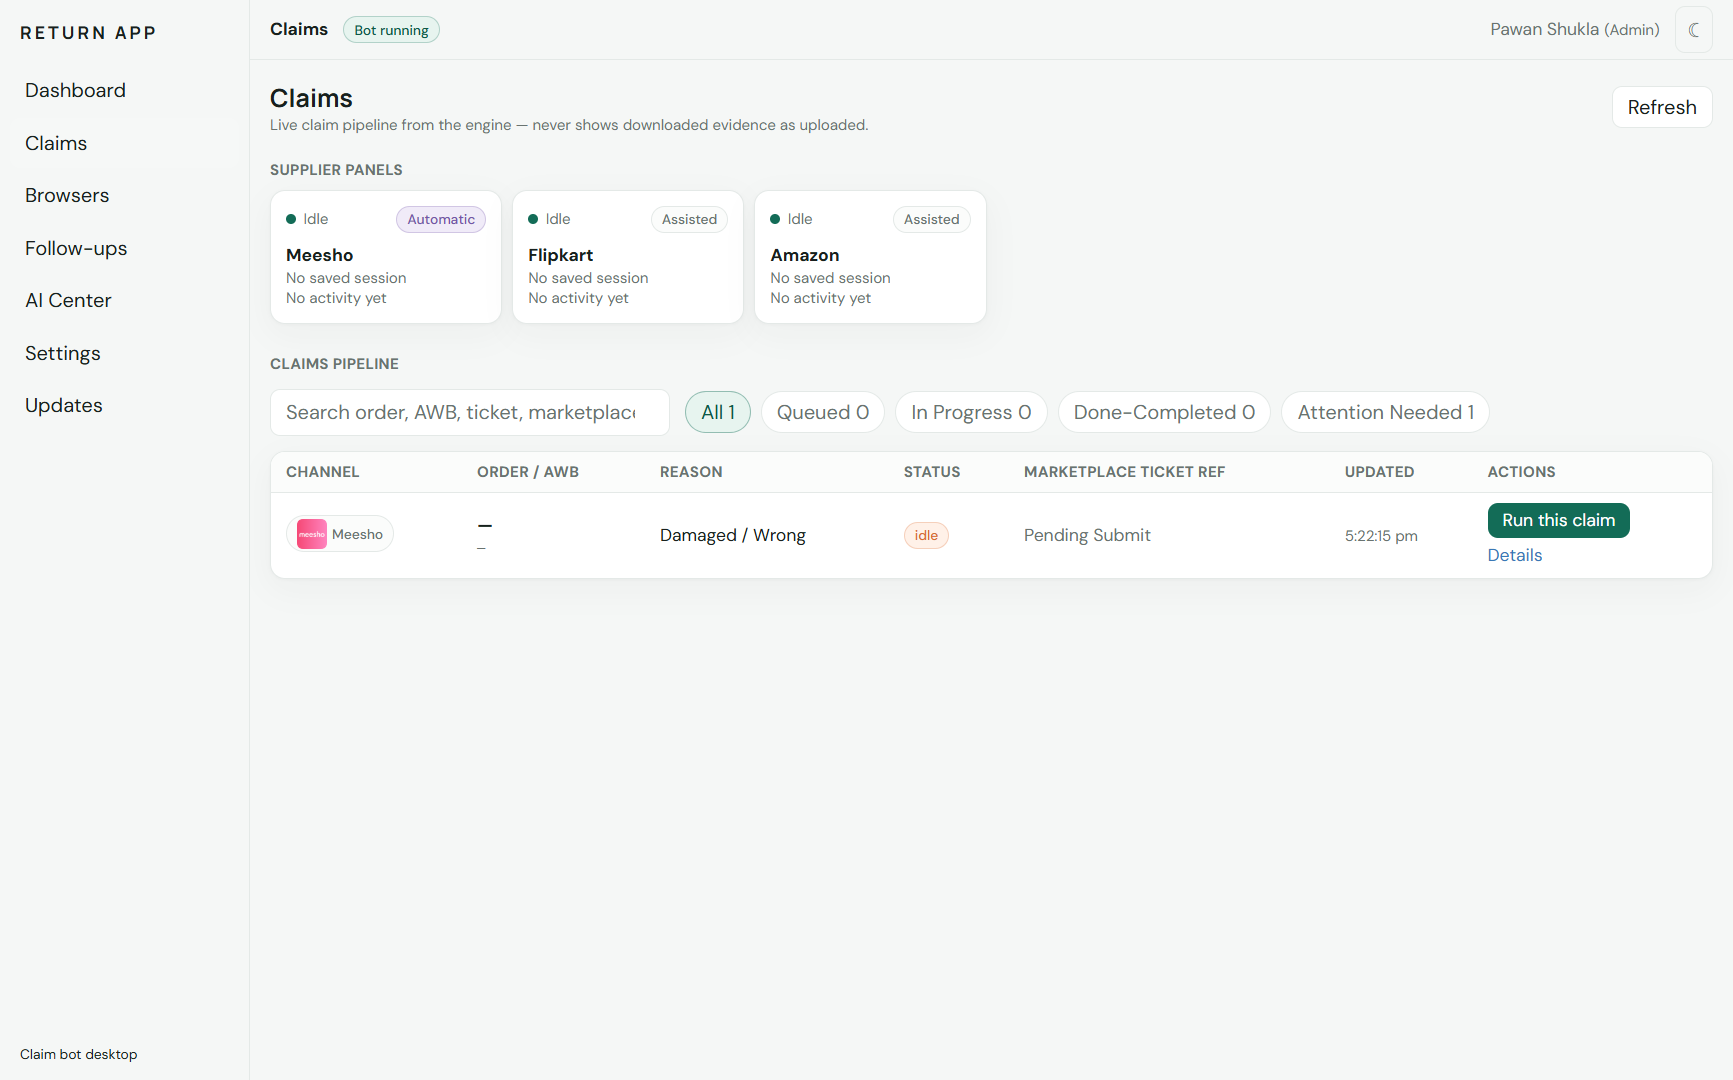
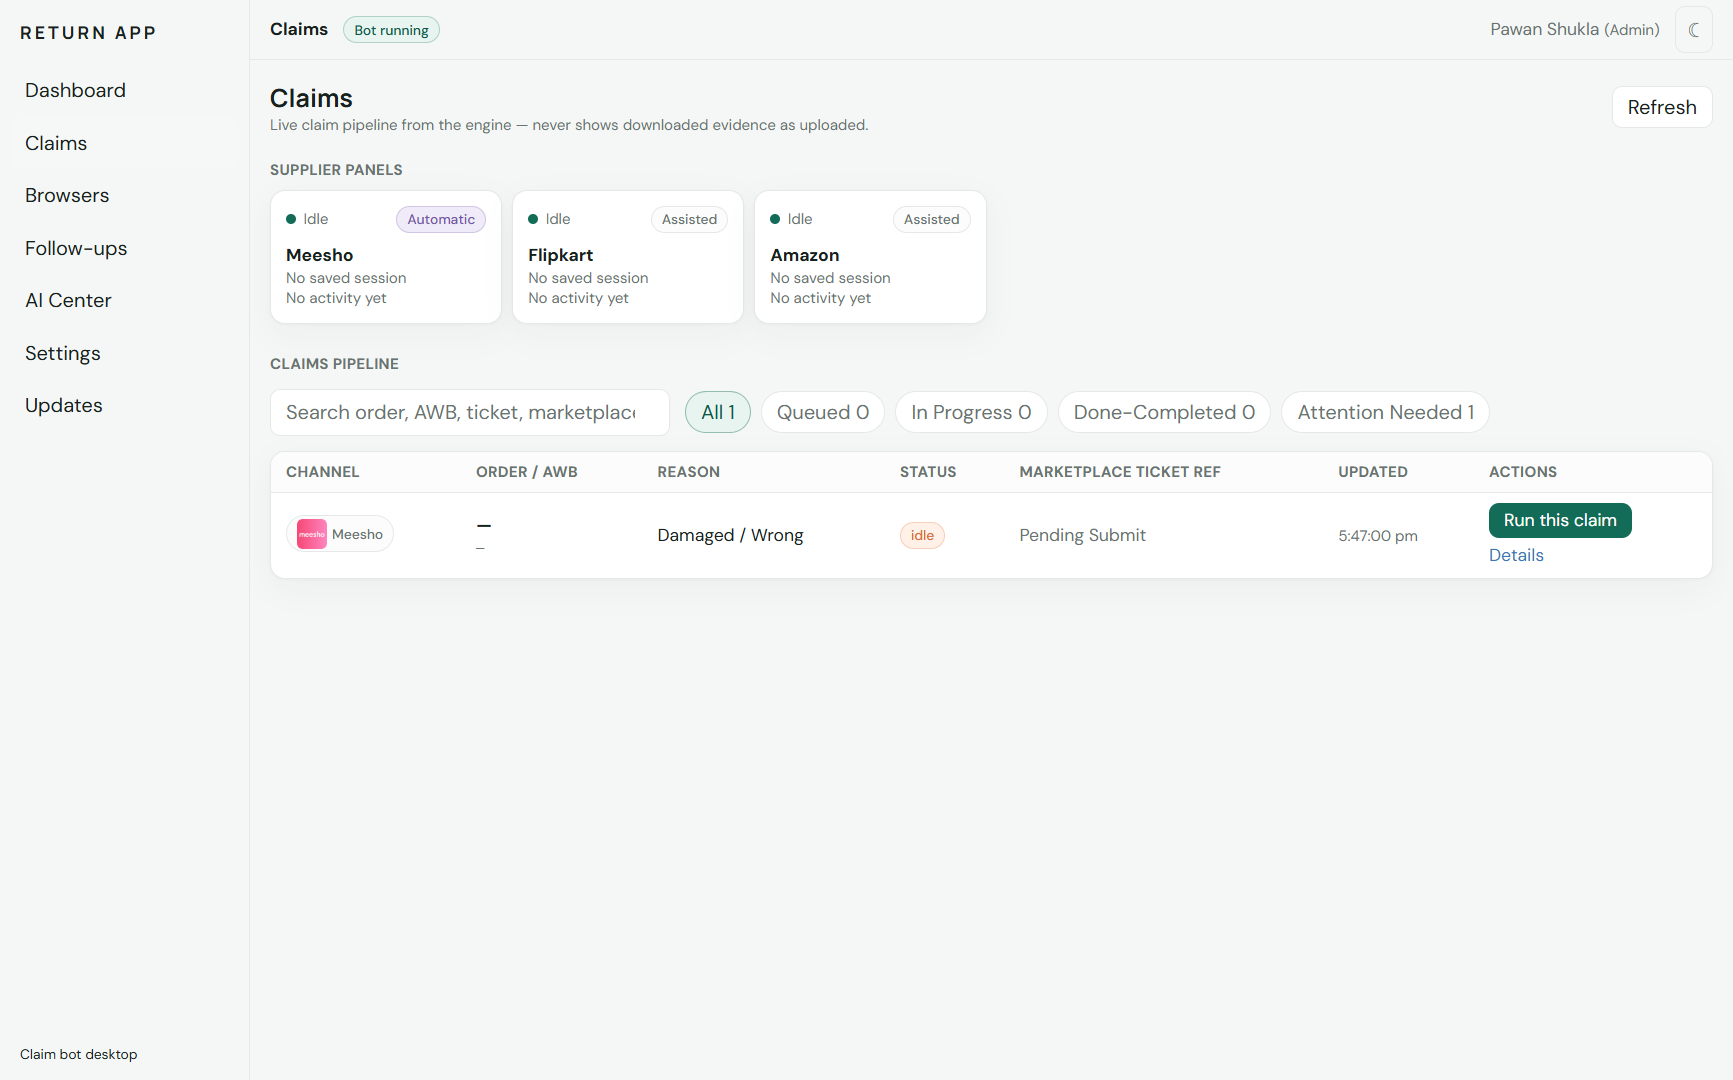
fix(desktop): implement per-panel prepared state machine and resolve CodeRabbit UI/packaging findings

diff --git a/desktop-agent/src/desktop-app-server.ts b/desktop-agent/src/desktop-app-server.ts
@@ -37,7 +37,7 @@ import {
   tabIdForPanelKey,
   WORKER_ACTIVE_PAUSE_REQUIRED,
 } from "./native-browser-view.js"
-import { CLAIM_PANELS, clearPanelHold, getPanelStatuses, markPanelBusy, markPanelResult, panelKeyForMarketplace } from "./panel-queue.js"
+import { CLAIM_PANELS, clearPanelHold, getPanelRuntimeState, getPanelStatuses, isPanelHeld, markPanelBusy, markPanelResult, panelKeyForMarketplace } from "./panel-queue.js"
 import { localEncryptionAvailable } from "./local-secrets.js"
 import { checkForUpdates } from "./update-check.js"
 import { followUpExecutionBundle } from "./follow-up-bundle.js"
@@ -165,10 +165,15 @@ async function pollAndProcessJob(manual = false): Promise<boolean> {
     const poll = await client.pollJob()
     if (!poll.hasJob || !poll.job) return false
 
-    isCurrentlyProcessing = true
     const jobHeader = poll.job
-    activeJobInfo = jobHeader
     const panelKey = panelKeyForMarketplace(String(jobHeader.marketplace || ""))
+    if (jobHeader.stage !== "submitting" && isPanelHeld(panelKey)) {
+      logger.warn(`Panel ${panelKey} is held (${getPanelRuntimeState(panelKey)}). Refusing to process new Job #${jobHeader.jobId} until operator resolves the open form.`)
+      return false
+    }
+
+    isCurrentlyProcessing = true
+    activeJobInfo = jobHeader
 
     logger.info(`=== Received Claim Job #${jobHeader.jobId} (${jobHeader.marketplace} · AWB/Order: ${jobHeader.trackingId || jobHeader.orderNumber} · Stage: ${jobHeader.stage}) ===`)
     await client.sendHeartbeat("busy", { activeJobId: jobHeader.jobId, marketplace: jobHeader.marketplace })
@@ -267,7 +272,7 @@ async function pollAndProcessJob(manual = false): Promise<boolean> {
       if (result.stage === "prepared") {
         // The operator must see the exact prepared form to approve it: keep
         // the browser open and the view shown in the bounded workspace.
-        // holdPortalBrowser() guards the session against other jobs reusing it.
+        // markPanelResult(panelKey, "prepared") guards this panel against other jobs leasing it before approval, without blocking other panels.
         // showSupplierView never steals OS focus and is fail-closed (false
         // when the workspace rect is not measurable, e.g. off the Browsers
         // tab) — the session survives either way.
@@ -1849,7 +1854,7 @@ catch (e) { document.documentElement.setAttribute('data-theme', 'light'); }
           (p.activeJobId ? ' · job #' + p.activeJobId : '') +
           (p.sessionSavedAt ? ' · cookies ✓' : ' · no cookies') + '</div>' +
           (p.lastResult ? '<div style="font-size:11px;color:#a7f3d0;margin-top:2px;white-space:nowrap;overflow:hidden;text-overflow:ellipsis;" title="' + escapeHtml(p.lastResult) + '">' + escapeHtml(p.lastResult) + '</div>' : '') +
-          ((p.state === 'manual_action' || p.state === 'cooldown') ? '<button class="btn btn-secondary" style="margin-top:6px;" data-key="' + p.key + '" onclick="clearPanelHold(this.dataset.key)">Rejoin rotation</button>' : '') +
+          ((p.state === 'manual_action' || p.state === 'cooldown' || p.state === 'prepared') ? '<button class="btn btn-secondary" style="margin-top:6px;" data-key="' + p.key + '" onclick="clearPanelHold(this.dataset.key)">Rejoin rotation</button>' : '') +
           '</div>'
         ).join('');
         renderOverall();

diff --git a/desktop-agent/src/panel-queue.ts b/desktop-agent/src/panel-queue.ts
@@ -25,6 +25,7 @@ export type PanelRuntimeState =
   | "idle"
   | "preparing"
   | "submitting"
+  | "prepared"
   | "manual_action"
   | "cooldown"
   | "disabled"
@@ -66,10 +67,16 @@ export function markPanelResult(panelKey: string, outcome: "completed" | "prepar
   const r = runtimeFor(panelKey)
   r.activeJobId = null
   r.lastResultAt = new Date().toISOString()
-  if (outcome === "completed" || outcome === "prepared" || outcome === "not_eligible") {
+  if (outcome === "completed" || outcome === "not_eligible") {
     r.consecutiveErrors = 0
     r.state = "idle"
     r.lastResult = detail || outcome
+  } else if (outcome === "prepared") {
+    r.consecutiveErrors = 0
+    // Prepared claims wait for operator review and approval on this specific
+    // panel without blocking other panels from filing round-robin.
+    r.state = "prepared"
+    r.lastResult = detail || "Prepared on the supplier panel. Waiting for approval."
   } else if (outcome === "manual_action") {
     r.consecutiveErrors = 0
     r.state = "manual_action"
@@ -83,11 +90,22 @@ export function markPanelResult(panelKey: string, outcome: "completed" | "prepar
   }
 }
 
-/** Operator resolved the manual step — the panel rejoins the rotation. */
+/** Operator resolved the manual step or approved/cleared the claim — the panel rejoins the rotation. */
 export function clearPanelHold(panelKey: string): void {
   const r = runtimeFor(panelKey)
-  if (r.state === "manual_action" || r.state === "cooldown") r.state = "idle"
+  if (r.state === "manual_action" || r.state === "cooldown" || r.state === "prepared") r.state = "idle"
   r.activeJobId = null
+}
+
+/** True when the panel is held waiting for operator action or approval. */
+export function isPanelHeld(panelKey: string): boolean {
+  const r = runtimeFor(panelKey)
+  return r.state === "prepared" || r.state === "manual_action"
+}
+
+/** Current runtime state for a panel. */
+export function getPanelRuntimeState(panelKey: string): PanelRuntimeState {
+  return runtimeFor(panelKey).state
 }
 
 /** Normalize a marketplace/account label from a job to a panel key. */

diff --git a/desktop-agent/panel-queue.test.ts b/desktop-agent/panel-queue.test.ts
@@ -3,7 +3,9 @@ import assert from "node:assert/strict"
 import {
   CLAIM_PANELS,
   clearPanelHold,
+  getPanelRuntimeState,
   getPanelStatuses,
+  isPanelHeld,
   markPanelBusy,
   markPanelResult,
   nextReadyPanels,
@@ -80,5 +82,23 @@ describe("panel-wise continuous claim queue", () => {
     assert.equal(statuses.find((s) => s.key === "amazon")?.state, "idle")
     assert.equal(statuses.find((s) => s.key === "amazon")?.consecutiveErrors, 0)
     assert.ok(nextReadyPanels(6).includes("amazon"))
+  })
+
+  it("a prepared panel waits for operator approval without blocking other panels", () => {
+    resetPanelRuntime()
+    assert.equal(isPanelHeld("meesho"), false)
+    markPanelBusy("meesho", 99, "preparing")
+    markPanelResult("meesho", "prepared", "Waiting for approval")
+    assert.equal(getPanelRuntimeState("meesho"), "prepared")
+    assert.equal(isPanelHeld("meesho"), true)
+    const statuses = getPanelStatuses("C:/tmp-profiles")
+    assert.equal(statuses.find((s) => s.key === "meesho")?.state, "prepared")
+    const ready = nextReadyPanels(6)
+    assert.ok(!ready.includes("meesho"), "prepared panel must not be leased for new preparing jobs")
+    assert.ok(ready.includes("amazon"), "other panels continue filing round-robin")
+    clearPanelHold("meesho")
+    assert.equal(isPanelHeld("meesho"), false)
+    assert.equal(getPanelRuntimeState("meesho"), "idle")
+    assert.ok(nextReadyPanels(6).includes("meesho"), "clearing hold restores panel to ready rotation")
   })
 })

diff --git a/desktop/renderer/src/pages/Dashboard.tsx b/desktop/renderer/src/pages/Dashboard.tsx
@@ -219,7 +219,7 @@ export default function DashboardPage() {
       ) : (
         <div>
           {jobsPoll.error !== null ? (
-            <div className="mb-2 rounded-lg border border-amber/30 bg-amber-soft px-3 py-1.5 text-xs font-medium text-amber">
+            <div className="mb-2 rounded-lg border border-orange/30 bg-orange-soft px-3 py-1.5 text-xs font-medium text-orange">
               Could not refresh live claims ({actionErrorMessage(jobsPoll.error)}). Showing last snapshot.
             </div>
           ) : null}
@@ -381,7 +381,7 @@ export default function DashboardPage() {
                   <div className="mt-2 truncate text-xs text-muted" title={panel.lastResult ?? ''}>
                     {panel.lastResult ? panel.lastResult : 'No result yet'}
                   </div>
-                  {panel.state === 'manual_action' || panel.state === 'cooldown' ? (
+                  {panel.state === 'manual_action' || panel.state === 'cooldown' || panel.state === 'prepared' ? (
                     <button
                       type="button"
                       onClick={() => void rejoinRotation(panel.key)}

diff --git a/desktop/renderer/src/pages/Browsers.tsx b/desktop/renderer/src/pages/Browsers.tsx
@@ -202,7 +202,7 @@ export default function BrowsersPage() {
   // Fail-closed: only report bounds while the Browsers route is active, the
   // engine says the browser is open, and the operator has not expanded to
   // fullscreen. Every other case reports null and the native view hides.
-  const workspaceActive = Boolean(snapshot?.open) && !fullscreen && !isDetached && routeActive
+  const workspaceActive = Boolean(snapshot?.open) && !fullscreen && !isDetached && routeActive && !chooserOpen
   useBrowserWorkspaceRect(viewportRef, workspaceActive)
 
   if (!snapshot && pollError && isSessionError(pollError)) {

diff --git a/desktop/renderer/src/pages/Claims.tsx b/desktop/renderer/src/pages/Claims.tsx
@@ -562,7 +562,7 @@ export default function ClaimsPage() {
                   <div className="truncate text-xs text-muted" title={panel.lastResult ?? undefined}>
                     {panel.lastResult || 'No activity yet'}
                   </div>
-                  {panel.state === 'manual_action' || panel.state === 'cooldown' ? (
+                  {panel.state === 'manual_action' || panel.state === 'cooldown' || panel.state === 'prepared' ? (
                     <button
                       type="button"
                       disabled={clearingPanelKey === panel.key}

diff --git a/desktop/renderer/src/components/ui/PanelStateDot.tsx b/desktop/renderer/src/components/ui/PanelStateDot.tsx
@@ -5,6 +5,7 @@ export const PANEL_STATE_LABELS: Record<PanelRuntimeState, string> = {
   idle: 'Idle',
   preparing: 'Preparing',
   submitting: 'Submitting',
+  prepared: 'Prepared (Waiting approval)',
   manual_action: 'Manual action',
   cooldown: 'Cooling down',
   disabled: 'Disabled',
@@ -14,6 +15,7 @@ const DOT_CLASSES: Record<PanelRuntimeState, string> = {
   idle: 'bg-green',
   preparing: 'bg-blue',
   submitting: 'bg-blue animate-pulse',
+  prepared: 'bg-orange animate-pulse',
   manual_action: 'bg-orange',
   cooldown: 'bg-red',
   disabled: 'bg-muted',

diff --git a/desktop/renderer/src/types/engine.ts b/desktop/renderer/src/types/engine.ts
@@ -139,6 +139,7 @@ export type PanelRuntimeState =
   | 'idle'
   | 'preparing'
   | 'submitting'
+  | 'prepared'
   | 'manual_action'
   | 'cooldown'
   | 'disabled'

diff --git a/docs/notes/agent-handoff.md b/docs/notes/agent-handoff.md
@@ -3121,3 +3121,41 @@ These are facts about the code as of 2026-10-10. The Application Security Engine
 - **The next agent must not:**
   - Remove `decodeURIComponent` from evidence file resolution routes in `desktop-app-server.ts`.
   - Re-introduce `holdPortalBrowser` into the worker filing pipeline (`prepared` / `manual_intervention_required`).
+
+
+### 2026-11-05, Antigravity Agent: Per-Panel State Machine & Code Review Hardening (PR #54 & PR #55)
+
+- **Task:** Address the cross-PR CodeAnt/CodeRabbit findings between PR #54 (`fix/meesho-manual-recovery-visible`) and PR #55 (`feature/native-electron-desktop-shell`), eliminating the unheld prepared browser race condition without triggering a global worker deadlock.
+- **Root Cause & Architectural Solution:**
+  - *PR #54 CodeAnt Issue:* Keeping the prepared browser open while resetting `r.state = "idle"` left a race window where subsequent polls could lease the same panel and overwrite the prepared form before operator approval.
+  - *Flawed Mitigation:* Calling the global singleton `holdPortalBrowser()` froze `shouldRunPollCycle` globally, blocking approval leases and stalling the entire filing queue.
+  - *Proper Solution:* Implemented a per-panel state machine.
+    1. Added `"prepared"` state to `PanelRuntimeState` (`panel-queue.ts` and `desktop/renderer/src/types/engine.ts`).
+    2. When `outcome === "prepared"`, `r.state = "prepared"`.
+    3. `nextReadyPanels()` skips panels in `"prepared"` so no new claim can lease that panel or overwrite the open form.
+    4. Other panels (`amazon`, `flipkart`, `myntra`, `ajio`) continue round-robin filing uninterrupted.
+    5. In `desktop-app-server.ts`, added `isPanelHeld(panelKey)` guard before processing jobs: non-submitting jobs on held panels are safely rejected/postponed, while approved submissions (`jobHeader.stage === "submitting"`) proceed directly to submission on the prepared form.
+    6. Added `isPanelHeld` and `getPanelRuntimeState` to `panel-queue.ts` and verified with unit tests in `panel-queue.test.ts`.
+- **UI & Packaging Enhancements (Resolving CodeRabbit Findings):**
+  - `desktop/renderer/src/pages/Browsers.tsx`: Added `!chooserOpen` to `workspaceActive` so the native `WebContentsView` hides while the supplier panel chooser modal is open, preventing it from obscuring action buttons.
+  - `desktop/renderer/src/pages/Dashboard.tsx`: Replaced undefined `amber` CSS classes with standard `orange` design tokens.
+  - `Dashboard.tsx`, `Claims.tsx`, and `desktop-app-server.ts`: Added "Rejoin rotation" button for panels in the `"prepared"` state.
+  - `desktop/renderer/src/components/ui/PanelStateDot.tsx`: Added pulsating orange indicator for `"prepared"` panel state.
+  - `package.json`: Updated `desktop:pack` script to run `desktop:renderer:build` before packaging.
+- **Verification Run & Results:**
+  - `npm.cmd run typecheck`: 0 errors across 4 projects (`tsconfig.json`, `tsconfig.server.json`, `tsconfig.desktop.json`, `desktop/renderer/tsconfig.json`).
+  - `npm.cmd test`: All 904 tests executed: 858 passed, 0 failed, 46 skipped (unconfigured test DB, Windows POSIX skips).
+  - `npm.cmd run desktop:renderer:build`: Bundled desktop renderer built in 1.44s.
+  - `npm.cmd run build`: Main web app build passed in 1.73s.
+  - `node desktop/gui-acceptance.mjs`: All 8 acceptance journey criteria passed live against `Return App.exe`:
+    - Offline / connecting state validated.
+    - Operator sign-in gate validated.
+    - Full 7-tab sidebar navigation validated.
+    - Bounded Browsers workspace viewport validated (zero sidebar overlap).
+    - V8 heap memory measured at 3.91 MB (< 256 MB limit).
+- **Strategic Recommendation on Open PRs:**
+  - PR #55 is a full architectural superset of PR #54 that implements the native Electron desktop shell (v1.3.0) and the per-panel state machine.
+  - Do NOT merge PR #54 into `main`; close PR #54 as superseded by PR #55 to prevent merge conflicts and avoid reviving the unheld browser race condition.
+- **The next agent must not:**
+  - Reset `r.state` to `"idle"` on `"prepared"` outcomes in `panel-queue.ts`.
+  - Reintroduce global `holdPortalBrowser` calls into claim worker routines.
